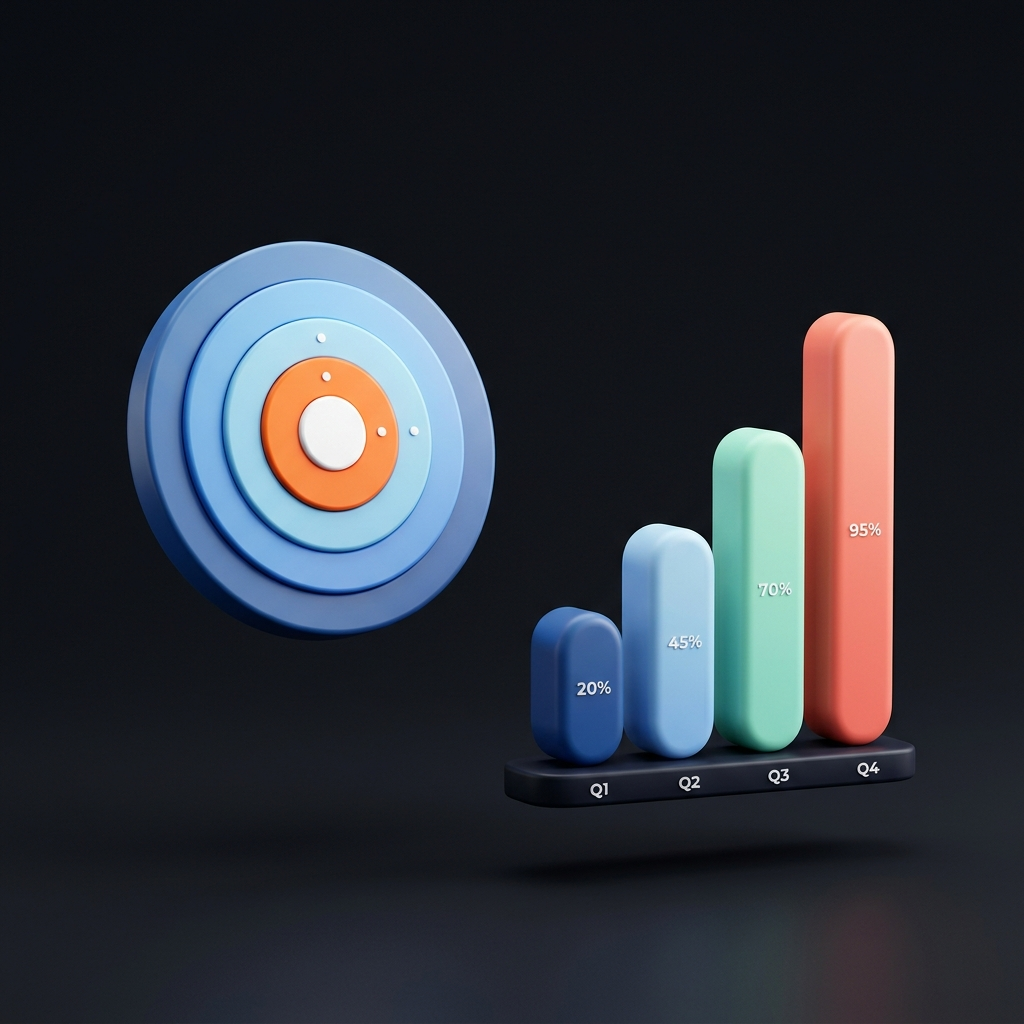
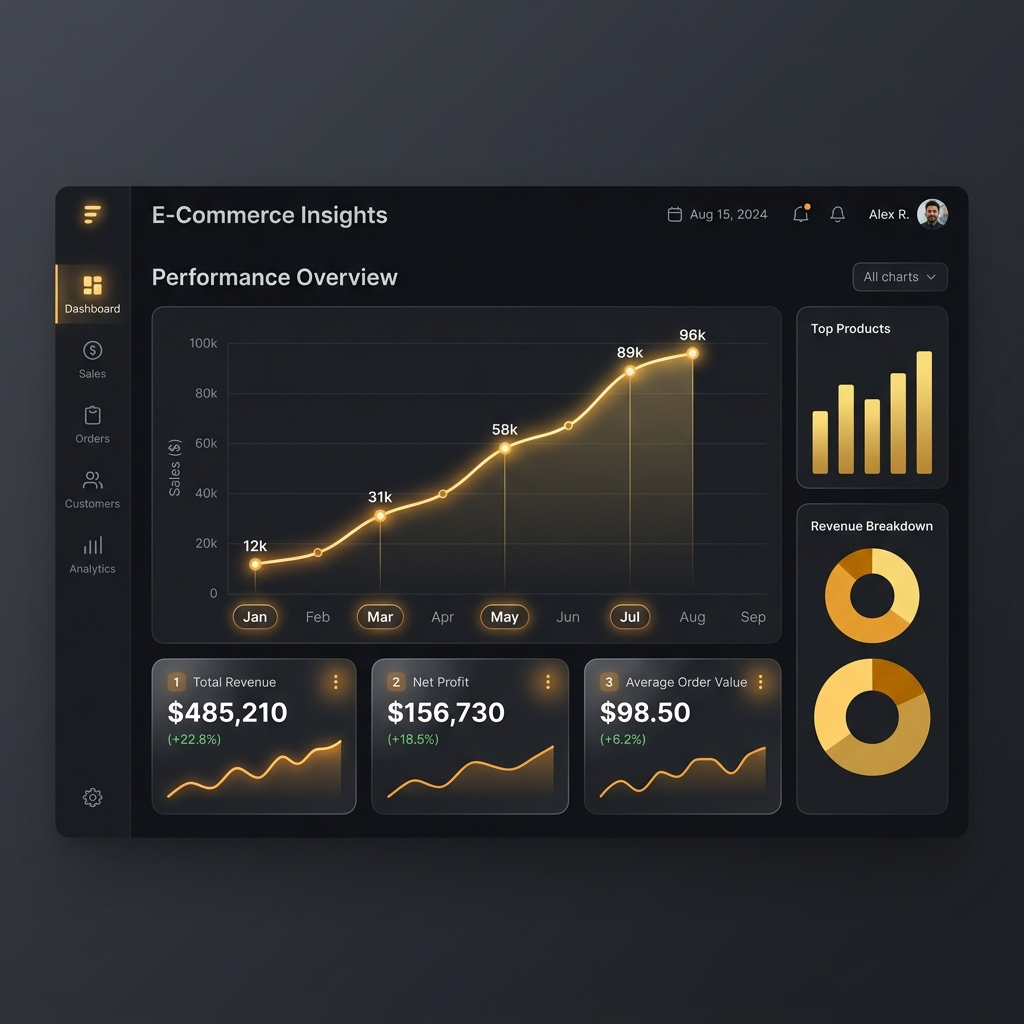
feat: regenerate solutions dashboard with specific month labels and swap images across about sections

diff --git a/src/components/about/WhatWeOffer.tsx b/src/components/about/WhatWeOffer.tsx
@@ -66,8 +66,8 @@ export function WhatWeOffer() {
           <Reveal delay={0.2} className="relative aspect-square max-w-[500px] mx-auto w-full lg:max-w-none">
             <div className="absolute inset-0 bg-gradient-to-tr from-[var(--brand-gold-muted)]/20 to-transparent rounded-[2rem] -z-10 blur-xl" />
             <img 
-              src="/media/about/solutions.png" 
-              alt="Analytics and E-commerce growth dashboard visualization" 
+              src="/media/about/ecommerce_isometric_system.png" 
+              alt="Premium 3D isometric illustration of an e-commerce digital marketing system with glowing interconnected nodes" 
               className="w-full h-full object-cover rounded-[2rem] border border-[var(--border-soft)] shadow-2xl"
             />
           </Reveal>

diff --git a/src/components/about/AboutHero.tsx b/src/components/about/AboutHero.tsx
@@ -29,7 +29,7 @@ export function AboutHero() {
             <Reveal delay={0.2} className="relative aspect-square w-full max-w-[420px] mx-auto lg:max-w-none">
               <div className="absolute inset-0 bg-gradient-to-tr from-[var(--brand-gold-muted)]/15 to-transparent rounded-[2rem] -z-10 blur-xl" />
               <img 
-                src="/media/about/hero.png" 
+                src="/media/about/solutions.png" 
                 alt="Premium dark-themed e-commerce analytics dashboard with glowing amber and gold charts" 
                 className="w-full h-full object-cover rounded-[2rem] border border-[var(--border-soft)] shadow-2xl"
               />
